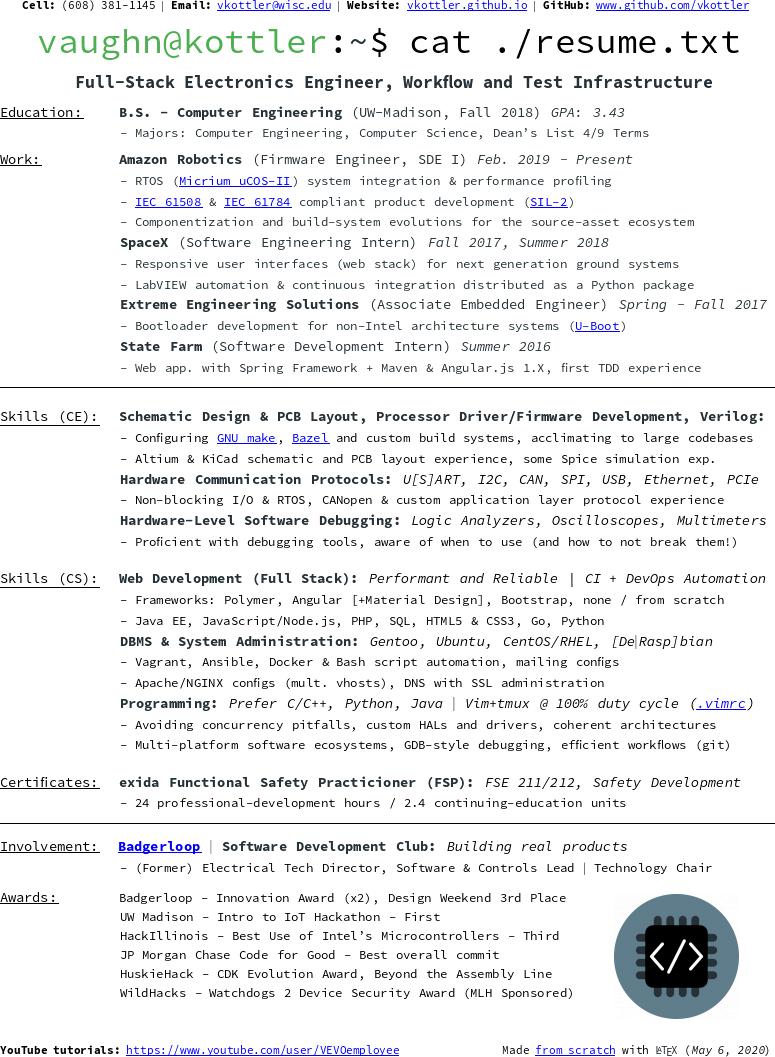
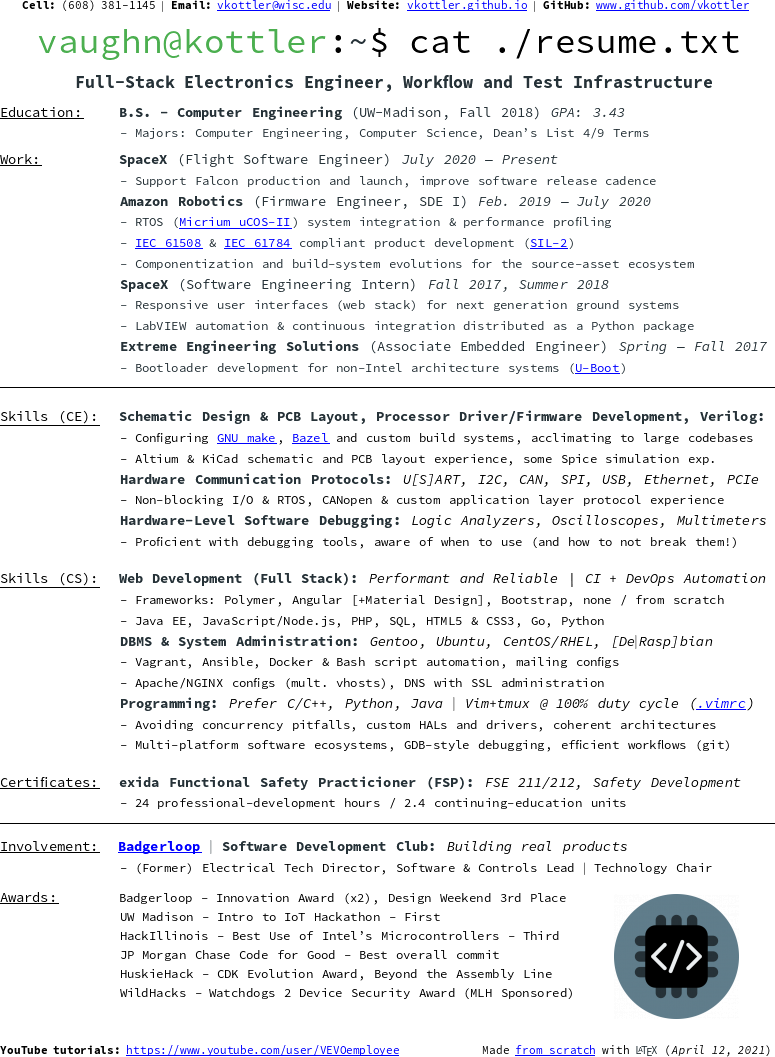
small updates

Changed region(s): [[0.1548, 0.1249, 0.8981, 0.3746], [0.6194, 0.843, 0.929, 0.9991], [0.96, 0.281, 0.991, 0.3434]]

diff --git a/sections/work.tex b/sections/work.tex
@@ -1,32 +1,32 @@
 \documentclass[../main.tex]{subfiles}%
 \ALTSECT{Work}{5.6em}
 %
-{Amazon Robotics}{Firmware Engineer, SDE I}{Feb.\ 2019 - Present}
+{SpaceX}{Flight Software Engineer}{July 2020 --- Present}
 %
 {\begin{adjustwidth}{1.2in}{0in}\setstretch{1.25}
+	\SECTCONT{Support Falcon production and launch, improve software
+		release cadence}
 	%
-    \SECTCONT{RTOS (\HREF{https://www.micrium.com/rtos/kernels/}{Micrium uCOS-II})
-        system integration \& performance profiling}
-    %
-    \SECTCONT{\HREF{https://www.iec.ch/functionalsafety/explained/}{IEC 61508} \&
-        \HREF{https://webstore.iec.ch/publication/59887}{IEC 61784} compliant
-        product development
-        (\HREF{https://www.crossco.com/resources/articles/determining-safety-integrity-levels-for-your-process-application/}{SIL-2})}
-    %
-    \SECTCONT{Componentization and build-system evolutions for the source-asset
-        ecosystem}
+	\WORK{Amazon Robotics}{Firmware Engineer, SDE I}{Feb.\ 2019 --- July 2020}
+	{RTOS (\HREF{https://www.micrium.com/rtos/kernels/}{Micrium uCOS-II})
+		system integration \& performance profiling}
+	%
+	\SECTCONT{\HREF{https://www.iec.ch/functionalsafety/explained/}{IEC 61508} \&
+		\HREF{https://webstore.iec.ch/publication/59887}{IEC 61784} compliant
+		product development
+	(\HREF{https://www.crossco.com/resources/articles/determining-safety-integrity-levels-for-your-process-application/}{SIL-2})}
+	%
+	\SECTCONT{Componentization and build-system evolutions for the source-asset
+		ecosystem}
 	%
 	\WORK{SpaceX}{Software Engineering Intern}{Fall 2017, Summer 2018}
 	{Responsive user interfaces (web stack) for next generation ground systems}
 	\SECTCONT{LabVIEW automation \& continuous integration
 		distributed as a Python package}
 	%
-	\WORK{Extreme Engineering Solutions}{Associate Embedded Engineer}
-	{Spring - Fall 2017}
+	\WORKNOBRK{Extreme Engineering Solutions}{Associate Embedded Engineer}
+	{Spring --- Fall 2017}
 	{Bootloader development for non-Intel architecture systems
 		(\HREF{http://www.denx.de/wiki/U-Boot}{U-Boot})}
-	%
-	\WORKNOBRK{State Farm}{Software Development Intern}{Summer 2016}
-	{Web app.\ with Spring Framework + Maven \& Angular.js 1.X, first TDD experience}
 	%
 \end{adjustwidth}}

diff --git a/main.tex b/main.tex
@@ -123,7 +123,7 @@
 \HR
 %
 \begin{textblock}{1.25}(6.5,9.2)
-\includegraphics[width=1.25in,natwidth=100,natheight=100]{im/logo_circular_510.png}
+\includegraphics[width=1.25in,natwidth=100,natheight=100]{im/logo_circle_512.png}
 \end{textblock}
 \subfile{sections/involvement}\noindent
 \subfile{sections/awards}
